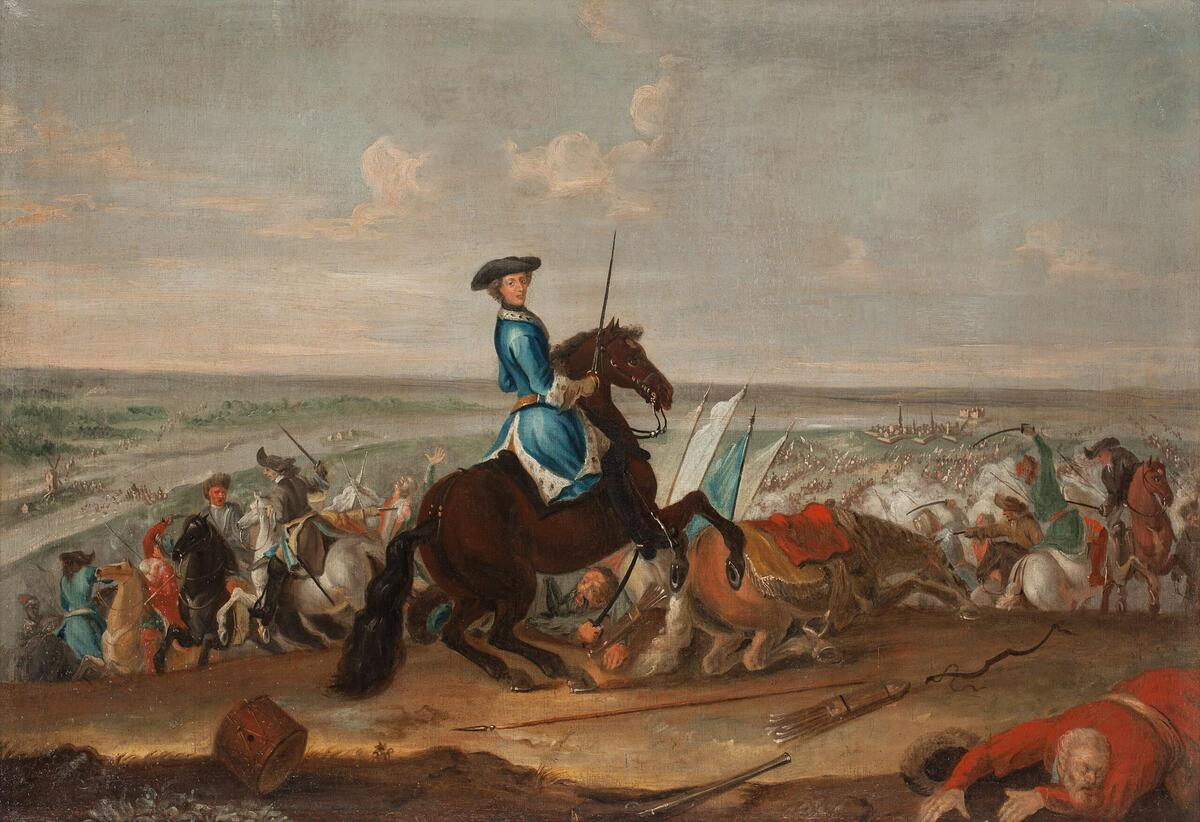
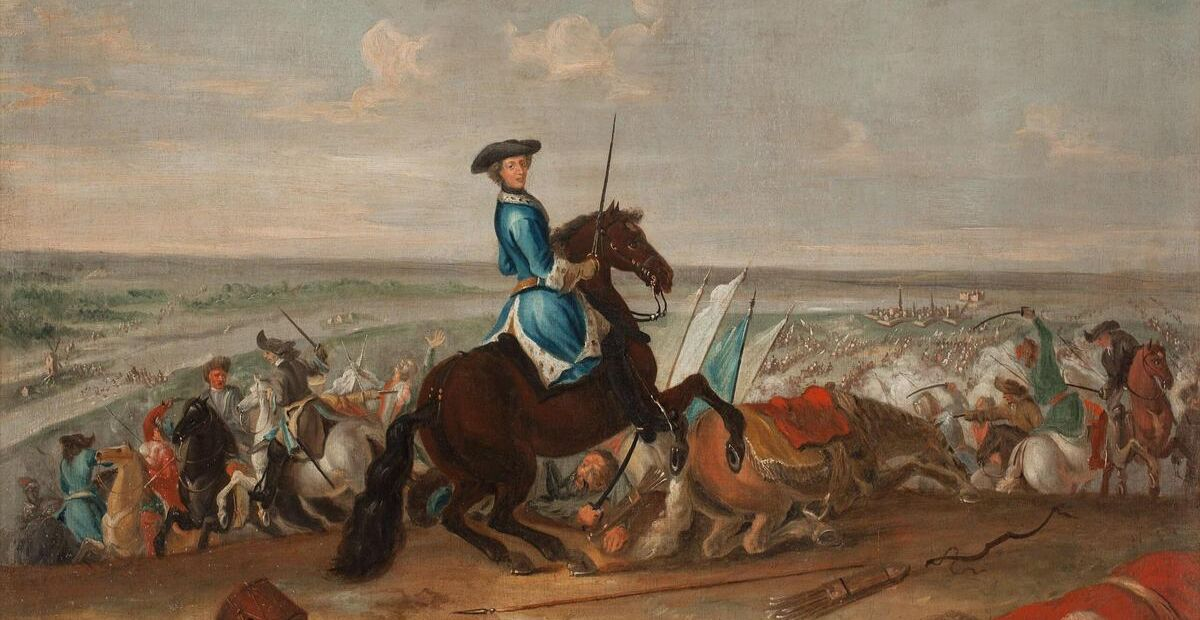
update images and layout

diff --git a/src/App.jsx b/src/App.jsx
@@ -180,7 +180,7 @@ function TitleSlide({ onNext }) {
     <div style={{ minHeight: '100vh', backgroundColor: '#E8EBF4', display: 'flex', alignItems: 'center', justifyContent: 'center', padding: 32 }}>
       <div style={{ maxWidth: 800, width: '100%' }}>
         <p style={{ color: '#8888a0', fontSize: 11, letterSpacing: '0.2em', marginBottom: 24 }}>SWEDISH THROUGH METAL</p>
-        <img src="/images/cathedral.jpg" alt="Stockholm Cathedral, 1697" style={{ width: '100%', height: 360, objectFit: 'cover', objectPosition: 'top', borderRadius: 4 }} />
+        <img src="/images/cathedral.jpg" alt="Stockholm Cathedral, 1697" style={{ width: '100%', height: 360, objectFit: 'cover', objectPosition: 'center 20%', borderRadius: 4 }} />
         <div style={{ marginTop: 48, display: 'flex', justifyContent: 'space-between', alignItems: 'flex-end' }}>
           <div>
             <h1 style={{ fontFamily: 'Georgia, serif', fontSize: 56, color: '#1a1a2e', margin: 0, lineHeight: 1.1 }}>Carolus Rex</h1>
@@ -209,7 +209,7 @@ function StorySlide1({ onNext, onBack }) {
           <p style={{ color: '#1a1a2e', fontSize: 22, lineHeight: 1.7, marginBottom: 24, fontWeight: 700 }}>He was fifteen.</p>
           <p style={{ color: '#5c5c7a', lineHeight: 1.7 }}>They would come to call him "The Last Viking." "The Swedish Meteor."</p>
         </div>
-        <img src="/images/karl-xii.jpg" alt="Karl XII" style={{ width: '100%', height: 420, objectFit: 'cover', objectPosition: 'top', borderRadius: 4 }} />
+        <img src="/images/karl-xii.jpg" alt="Karl XII" style={{ width: '100%', height: 520, objectFit: 'cover', objectPosition: 'center 70%', borderRadius: 4 }} />
       </div>
       <Dots current={1} total={10} />
       <Nav onNext={onNext} onBack={onBack} />
@@ -221,7 +221,7 @@ function StorySlide2({ onNext, onBack }) {
   return (
     <div style={{ minHeight: '100vh', backgroundColor: '#F0EDE8', padding: '32px 64px' }}>
       <div style={{ maxWidth: 1100, margin: '0 auto', display: 'grid', gridTemplateColumns: '1fr 1fr', gap: 64, alignItems: 'center', minHeight: '80vh' }}>
-        <img src="/images/coronation.jpg" alt="The coronation" style={{ width: '100%', height: 420, objectFit: 'cover', objectPosition: 'top', borderRadius: 4 }} />
+        <img src="/images/coronation.jpg" alt="The coronation" style={{ width: '100%', height: 420, objectFit: 'cover', objectPosition: 'center 20%', borderRadius: 4 }} />
         <div>
           <p style={{ color: '#8888a0', fontSize: 12, letterSpacing: '0.15em', marginBottom: 24 }}>II. THE CROWN</p>
           <h2 style={{ fontFamily: 'Georgia, serif', fontSize: 44, color: '#7c6a9c', marginBottom: 8, lineHeight: 1.1, fontStyle: 'italic' }}>Kronan kommer ej från kyrkan</h2>
@@ -257,7 +257,7 @@ function StorySlide3({ onNext, onBack }) {
           <p style={{ color: '#1a1a2e', fontSize: 20, fontWeight: 700 }}>And so ended the reign of the Last Viking.</p>
         </div>
         <div>
-          <img src="/images/cederstrom.jpg" alt="Bringing Home the Body of King Karl XII" style={{ width: '100%', height: 400, objectFit: 'cover', objectPosition: 'top', borderRadius: 4 }} />
+          <img src="/images/cederstrom.jpg" alt="Bringing Home the Body of King Karl XII" style={{ width: '100%', height: 400, objectFit: 'cover', objectPosition: 'center 20%', borderRadius: 4 }} />
           <div style={{ display: 'flex', justifyContent: 'space-around', marginTop: 24 }}>
             {[{ n: "15", l: "crowned" }, { n: "18", l: "years at war" }, { n: "36", l: "died" }].map((d, i) => (
               <div key={i} style={{ textAlign: 'center' }}>
